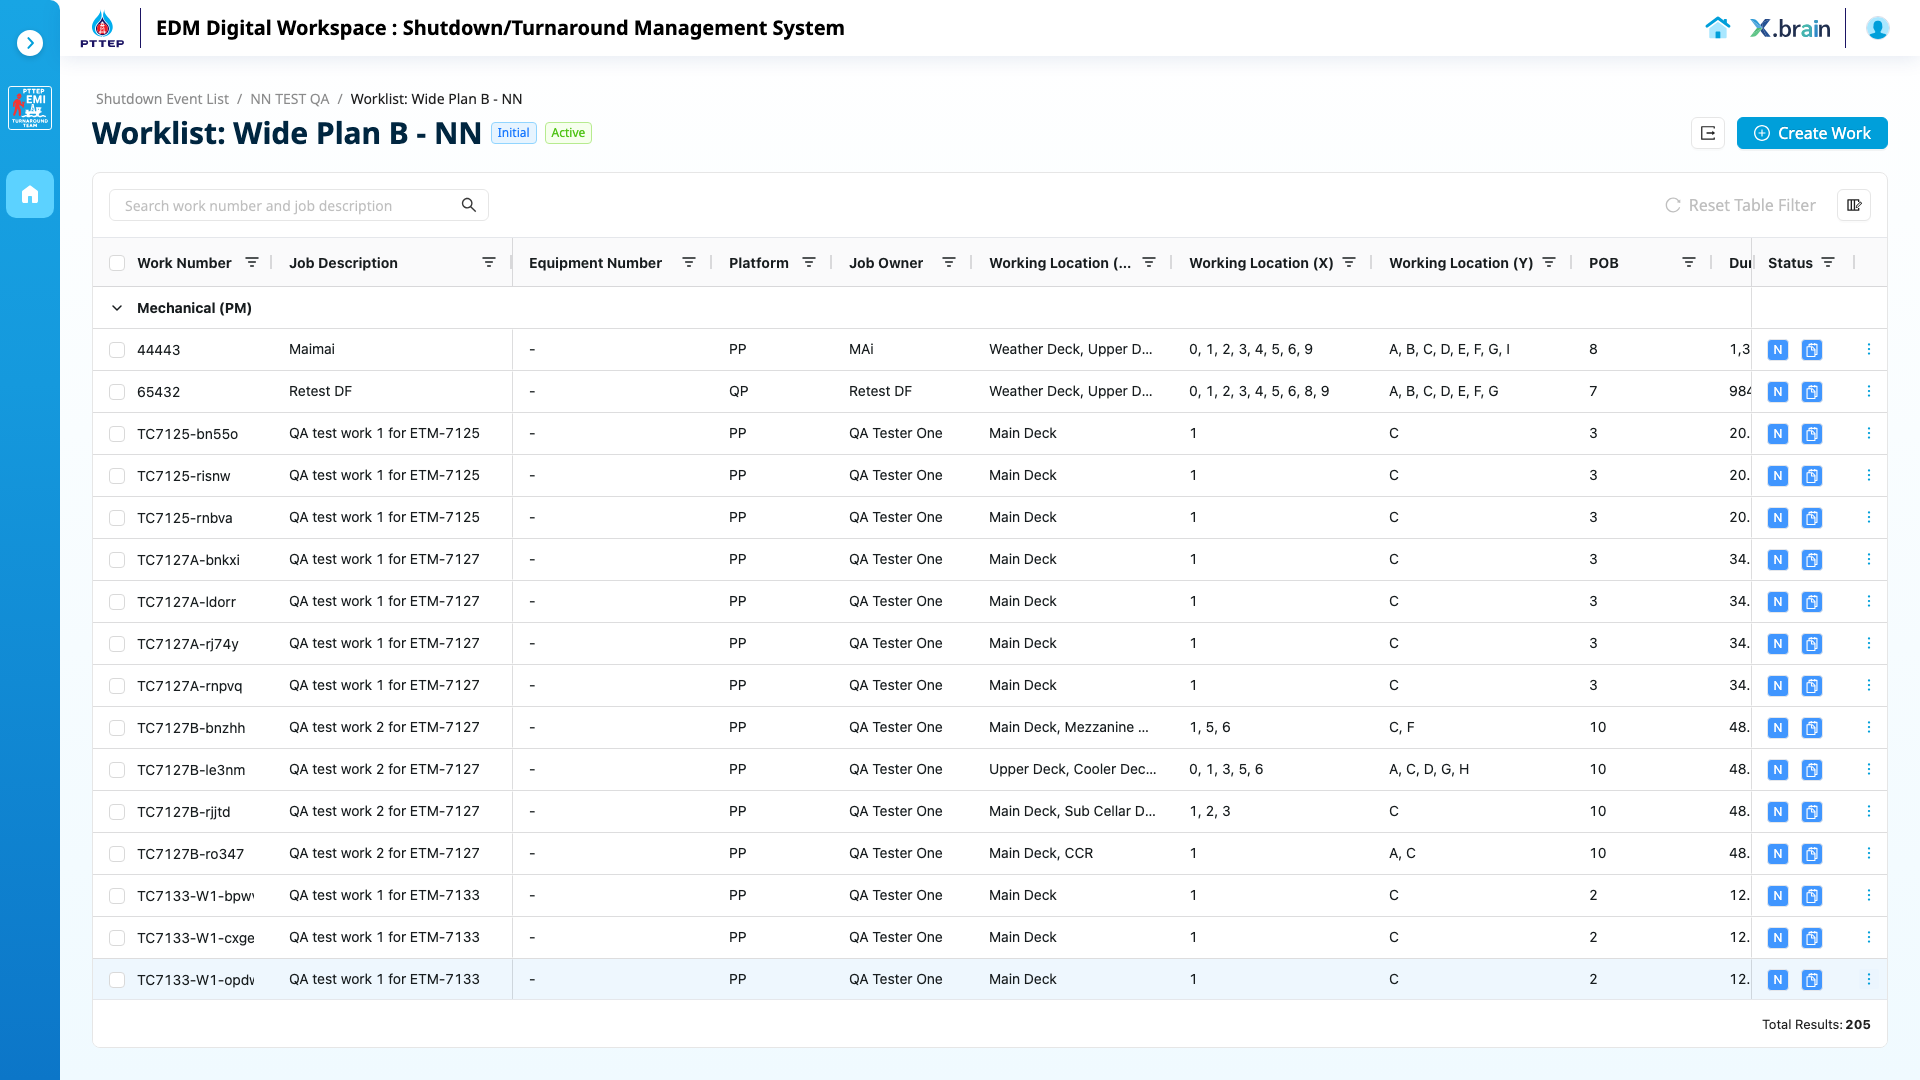
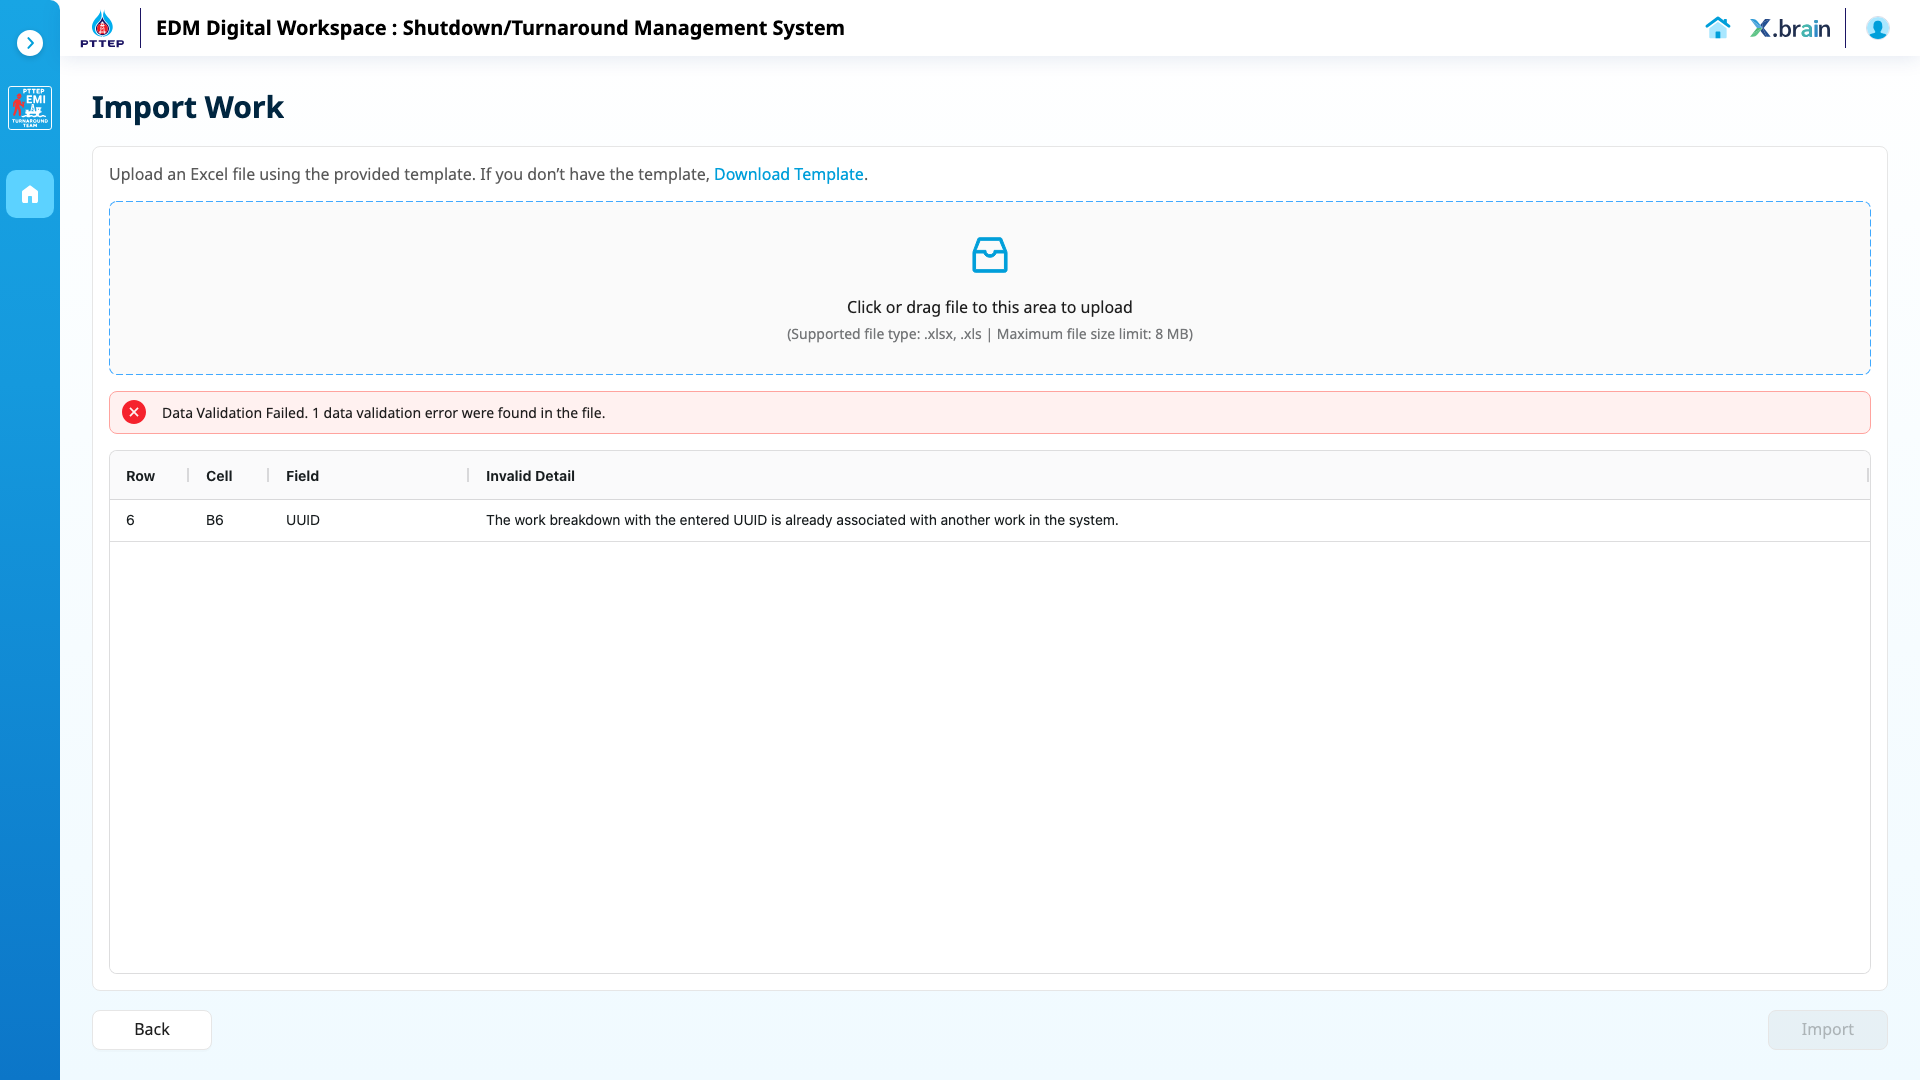
docs(ETM-8394): BA R4/R5, defects ETM-10051 and ETM-10060, Xray 8755 step 1

diff --git a/work/ETM-8394/defect-draft-uuid-msg.md b/work/ETM-8394/defect-draft-uuid-msg.md
@@ -2,7 +2,7 @@
 
 On the Import Work page, a `Work Breakdown` row with `Action = Revise` that uses the UUID of a breakdown whose Work was deleted is rejected with the wrong message. ETM-8394 AC 3.4 says Revise on a deleted Work or on a breakdown under a deleted Work gives the UUID Error "The UUID you entered is not exist in the system." (BA confirmed 25 Nov 2026).
 
-**Environment:** QA (https://stms-qa.apps.pttep.com), role Turnaround Manager, event NN TEST QA, Worklist of Plan 6843.
+**Environment:** QA (https://stms-qa.apps.pttep.com), role Turnaround Manager, event NN TEST QA, Worklist "Wide Plan B - NN".
 
 ### Step to Reproduce
 1. Import Work `Y1` with 2 breakdowns and Work `Y2` with 1 breakdown (Action `Add`), Confirm.
@@ -11,10 +11,10 @@ On the Import Work page, a `Work Breakdown` row with `Action = Revise` that uses
 4. Upload the file as the Turnaround Manager.
 
 ### Actual Result
-The breakdown row shows "The work breakdown with the entered UUID is already associated with another work in the system." `Import` is disabled.
+The breakdown row shows "The work breakdown with the entered UUID is already associated with another work in the system." `Confirm` (Import) is disabled.
 
 ### Expected Result
-The breakdown row shows "The UUID you entered is not exist in the system." (AC 3.4). `Import` is disabled.
+The breakdown row shows "The UUID you entered is not exist in the system." (AC 3.4). `Confirm` (Import) is disabled.
 Xray: Test ETM-8766, Test Execution ETM-8774.
 
-Pictures: /Users/ncy/Downloads/NN/DocforAi/PTTEP_Auto/ep-etm-fe-qa/output/runs/2026-11-24_205244_ETM-8394/fe-e2e-importWork-verifyIm-47ec3-d-Work-gives-the-UUID-Error-chromium/test-failed-1.png
+Pictures: /Users/ncy/Downloads/NN/DocforAi/STMS/qa-team-etm/work/ETM-8394/evidence-8766/step6_upload_result.png (full screen of the upload result, QA run 2026-11-25_145954)

diff --git a/work/ETM-8394/handover.md b/work/ETM-8394/handover.md
@@ -46,3 +46,12 @@
 - Lead deletes ETM-9233 in Jira by hand. Files `dev-brief-ETM-9233.md` and `retest-9233.md` are obsolete.
 - To do (needs the user's yes, Xray write): ETM-8755 step 3 -> "fill `Action = Revise` on every row, then upload" (expected: no error, Confirm enabled); set ETM-8755 back from FAILED, remove the defect link on step 3; re-run ETM-8755.
 - `questions-for-BA-round5.md` Q1 and Q3 closed by this decision; Q2 (export follows the filter?) still open.
+- 2026-11-25 15:10: ETM-9233 deleted in Jira by the lead (checked: issue no longer exists). ETM-8755 PASSED in ETM-8774 (run 2026-11-25_140423), steps 3 and 6 updated.
+- 2026-11-25 15:00: 8766/8767 re-run for defect evidence hit "Loading..." (QA busy, 5 cards running); re-run blocked by another session's ETM-8394 run lock. Defects D1/D2 (xray-fix-proposal-3.md) not logged yet.
+
+## 2026-11-25 afternoon: BA R4/R5 applied, two defects logged
+- Xray ETM-8755 step 1 updated (export holds the whole Worklist, Action blank); steps 3/6 already said "fill Action = Revise"; 8755 PASSED in ETM-8774, no defect link.
+- ETM-10051 (from 8767): breakdowns of a Work deleted by import are not deleted/flagged. DB evidence only. Assignee jif (thanawich klongsard). [QA] ETM-10052 Done 20m. Xray 8767 step 9 FAILED + linked.
+- ETM-10060 (from 8766): breakdown UUID of a deleted Work gives "already associated with another work" instead of "UUID not exist". Picture work/ETM-8394/evidence-8766/step6_upload_result.png embedded. Assignee jif. [QA] ETM-10061 Done 20m. Xray 8766 step 6 FAILED + linked. Relates to ETM-10051.
+- Spec: 8766 now saves a full-screen picture of the upload result before the check; expectBreakdownGone accepts a delete flag. Not committed.
+- ETM-9233 still Open in Jira (lead deletes it by hand).

diff --git a/work/ETM-8394/dev-brief-ETM-10060.md b/work/ETM-8394/dev-brief-ETM-10060.md
@@ -1,4 +1,4 @@
-# Dev brief: DEFECT_KEY (Story ETM-8394)
+# Dev brief: ETM-10060 (Story ETM-8394)
 
 ## 1. What is wrong
 On Import Work, a `Work Breakdown` row with `Action = Revise` that uses the UUID of a breakdown whose Work was deleted is rejected with "The work breakdown with the entered UUID is already associated with another work in the system." It must say "The UUID you entered is not exist in the system." (AC 3.4). The row is correctly rejected; only the message is wrong.
@@ -6,7 +6,7 @@ On Import Work, a `Work Breakdown` row with `Action = Revise` that uses the UUID
 ## 2. Where
 - Environment: QA, `https://stms-qa.apps.pttep.com`. Role: Turnaround Manager.
 - Page: Worklist > Create Work > Import Excel ("Import Work and Work Breakdown"), upload validation.
-- Data: event `NN TEST QA`, Worklist of Plan 6843; any Worklist works.
+- Data: event `NN TEST QA`, Worklist "Wide Plan B - NN"; any Worklist works.
 
 ## 3. Steps to reproduce
 1. Import Work `Y1` with 2 breakdowns and Work `Y2` with 1 breakdown (`Action = Add`), Confirm.
@@ -17,7 +17,9 @@ On Import Work, a `Work Breakdown` row with `Action = Revise` that uses the UUID
 | | Actual | Expected |
 |---|---|---|
 | Message on the breakdown row | "The work breakdown with the entered UUID is already associated with another work in the system." | "The UUID you entered is not exist in the system." |
-| Import | Disabled | Disabled |
+| Import button | Disabled | Disabled |
+
+Evidence: Row 6, Cell B6, Field UUID (QA run 2026-11-25_145954). Related: ETM-10051 (breakdowns of a deleted Work are not deleted).
 
 ## 5. Rule source
 - ETM-8394 AC 3.4: Revise on a deleted Work, or on a Work Breakdown under a deleted Work, gives the UUID Error.

diff --git a/work/ETM-8394/evidence-check/defect-draft-uuid-msg.brief.md b/work/ETM-8394/evidence-check/defect-draft-uuid-msg.brief.md
@@ -1,12 +1,12 @@
 # Evidence check defect-draft-uuid-msg (ETM-8394, defect)
 
-sourceHash: ea3aa729f79c
+sourceHash: 9abd9709fc5d
 
 You read this BLIND: the first agent's result is not here on purpose. Do not open the source file, the run log,
 findings.json, verdict-table.md or any file that states a result for this check. Read the pictures yourself.
 
 ## Environment
-QA (https://stms-qa.apps.pttep.com), role Turnaround Manager, event NN TEST QA, Worklist of Plan 6843.
+QA (https://stms-qa.apps.pttep.com), role Turnaround Manager, event NN TEST QA, Worklist "Wide Plan B - NN".
 
 ## Steps
 1. Import Work `Y1` with 2 breakdowns and Work `Y2` with 1 breakdown (Action `Add`), Confirm.
@@ -15,10 +15,10 @@ QA (https://stms-qa.apps.pttep.com), role Turnaround Manager, event NN TEST QA, 
 4. Upload the file as the Turnaround Manager.
 
 ## Expected Result (as the draft states it: check it has a source)
-The breakdown row shows "The UUID you entered is not exist in the system." (AC 3.4). `Import` is disabled.
+The breakdown row shows "The UUID you entered is not exist in the system." (AC 3.4). `Confirm` (Import) is disabled.
 Xray: Test ETM-8766, Test Execution ETM-8774.
 
-Pictures: /Users/ncy/Downloads/NN/DocforAi/PTTEP_Auto/ep-etm-fe-qa/output/runs/2026-11-24_205244_ETM-8394/fe-e2e-importWork-verifyIm-47ec3-d-Work-gives-the-UUID-Error-chromium/test-failed-1.png
+Pictures: /Users/ncy/Downloads/NN/DocforAi/STMS/qa-team-etm/work/ETM-8394/evidence-8766/step6_upload_result.png (full screen of the upload result, QA run 2026-11-25_145954)
 
 ## Pictures
 - /Users/ncy/Downloads/NN/DocforAi/STMS/qa-team-etm/work/ETM-8394/evidence-check/defect-draft-uuid-msg.pics/pic-1.png

diff --git a/work/ETM-8394/dev-brief-ETM-10051.md b/work/ETM-8394/dev-brief-ETM-10051.md
@@ -1,4 +1,4 @@
-# Dev brief: DEFECT_KEY (Story ETM-8394)
+# Dev brief: ETM-10051 (Story ETM-8394)
 
 ## 1. What is wrong
 Import `Action = Delete` on a Work soft-deletes the Work (`sdw_is_delete = 'Y'`) but leaves its Work Breakdowns in `shutdown_activity_breakdown` with no delete flag. The breakdowns of a deleted Work must be flagged deleted together with it.
@@ -18,6 +18,9 @@ Import `Action = Delete` on a Work soft-deletes the Work (`sdw_is_delete = 'Y'`)
 |---|---|---|
 | Work `Z2` | `sdw_is_delete = 'Y'`, gone from the Worklist | same |
 | Breakdown of `Z2` | Row still in `shutdown_activity_breakdown`, not flagged (the table has no delete column) | Flagged deleted (soft delete with the Work) |
+
+QA DB evidence (24 Nov 2026): Works W-8394-Z2-2mvv, W-8394-Z2-3vfy, W-8394-Z1-2mvv have `sdw_is_delete = 'Y'`; their breakdowns (e.g. `8103726e-a640-4eb3-a452-d64e78ee290d`, `7abd5350-90a4-4eaf-9df1-5314c2512dd8`) are still in `shutdown_activity_breakdown` with `sab_updated_date` null.
+Note: AC 1.4 / Xray ETM-8767 say a breakdown deleted by its own Delete row is "removed permanently"; BA (25 Nov) says breakdowns of a deleted Work are flagged deleted. Either way it must not stay a live record.
 
 ## 5. Rule source
 - Import template rules: deleting a Work is a soft delete together with its breakdowns.
